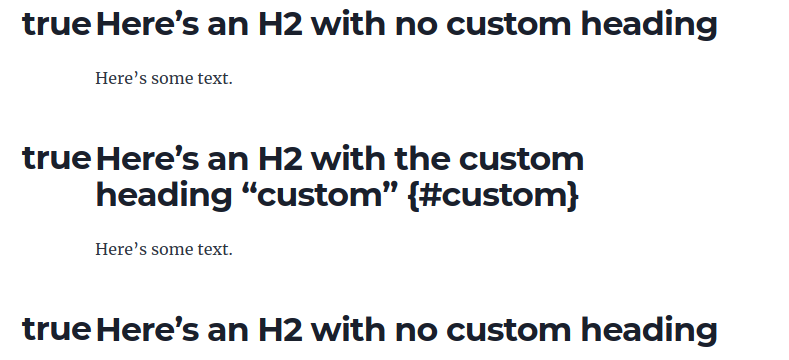
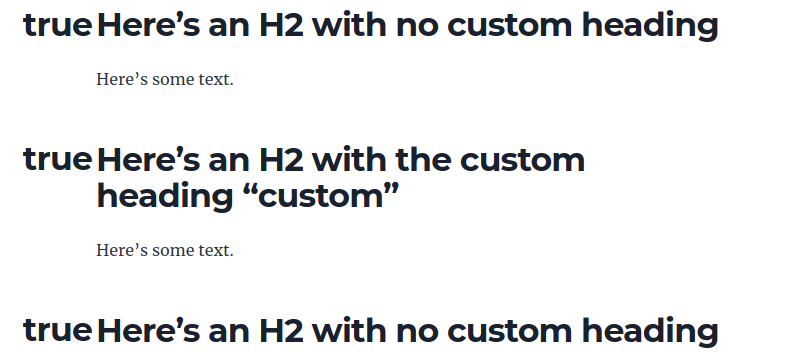
Custom IDs work fine

diff --git a/gatsby-config.js b/gatsby-config.js
@@ -42,7 +42,12 @@ module.exports = {
               wrapperStyle: `margin-bottom: 1.0725rem`,
             },
           },
-          `gatsby-remark-autolink-headers`,
+          {
+            resolve: 'gatsby-remark-autolink-headers',
+            options: {
+              enableCustomId: true,
+            },
+          },
           `gatsby-remark-prismjs`,
           `gatsby-remark-copy-linked-files`,
           `gatsby-remark-smartypants`,

diff --git a/README.md b/README.md
@@ -7,6 +7,6 @@ Minimal reproduction for a problem that I'm having with gatsby-remark-autolink-h
 
 Expected result: Headings show only the heading text, such as `Here's an H2 with the custom heading "custom"`.
 
-Actual result: Headings start with the text `true` and end with the custom heading ID, such as `trueHere's an H2 with the custom heading "custom" {#custom}`.
+Actual result: Headings start with the text `true`, such as `trueHere's an H2 with the custom heading "custom"`.
 
 ![Screencap that shows problem](problem_screencap.png)
